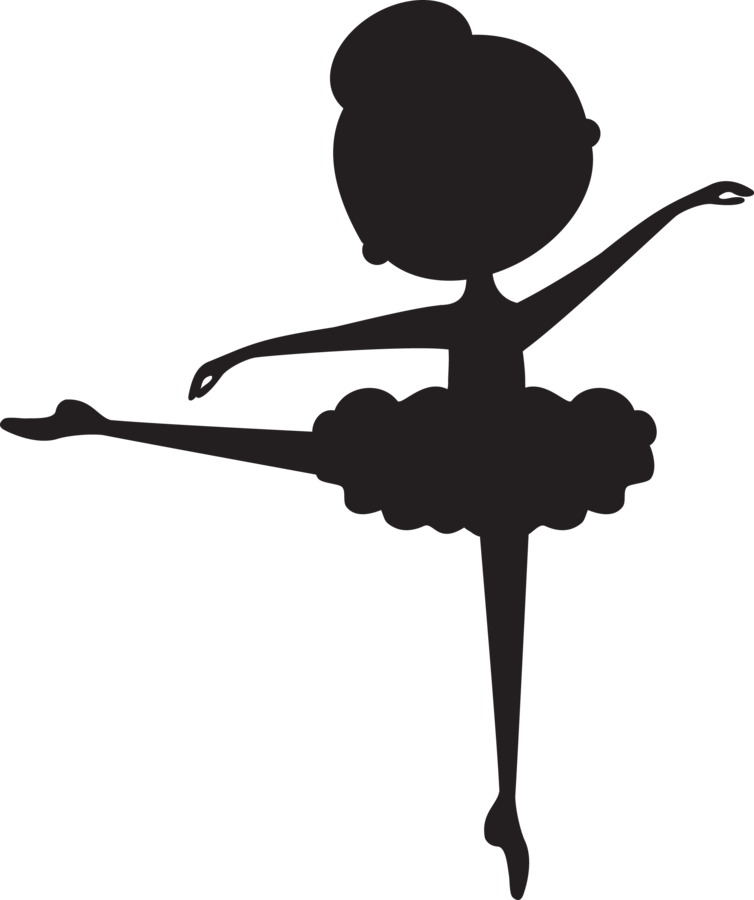
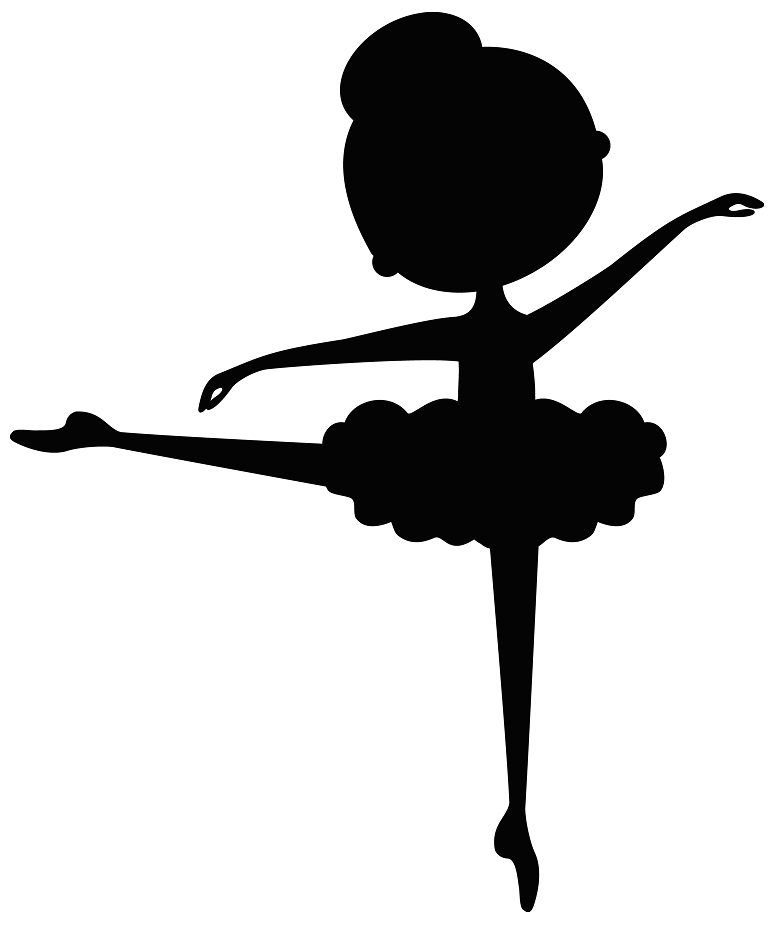
added white border to tina

Changed region(s): [[0.0, 0.0, 1.0, 1.0]]

diff --git a/scripts/script.js b/scripts/script.js
@@ -121,6 +121,33 @@ const gameArea = {
         return question === this.optionC;
       },
     },
+    {
+      question: "What's the translation of 'pas de cheval'?",
+      optionA: "Step of the horse",
+      optionB: "Step of the eagle",
+      optionC: "Step of the pirate",
+      solution: function (question) {
+        return question === this.optionA;
+      },
+    },
+    {
+      question: "What company was founded by George Balanchine?",
+      optionA: "American Ballet Theatre",
+      optionB: "New York City Ballet",
+      optionC: "The Kirov",
+      solution: function (question) {
+        return question === this.optionB;
+      },
+    },
+    {
+      question: "What is en face?",
+      optionA: "A lotion for your face",
+      optionB: "When you face the barre",
+      optionC: "A position of the body in center",
+      solution: function (question) {
+        return question === this.optionC;
+      },
+    },
   ],
   question: false,
   start: function () {

diff --git a/styles/style.css b/styles/style.css
@@ -66,7 +66,6 @@ h1 {
 h2 {
     font-family: 'Lucida Sans', 'Lucida Sans Regular', 'Lucida Grande', 'Lucida Sans Unicode', Geneva, Verdana, sans-serif;
     font-weight: 400;
-    text-shadow: gray 10px -3px 5px;
     text-align: center;
     letter-spacing: 1;
     border-radius: 20px;
